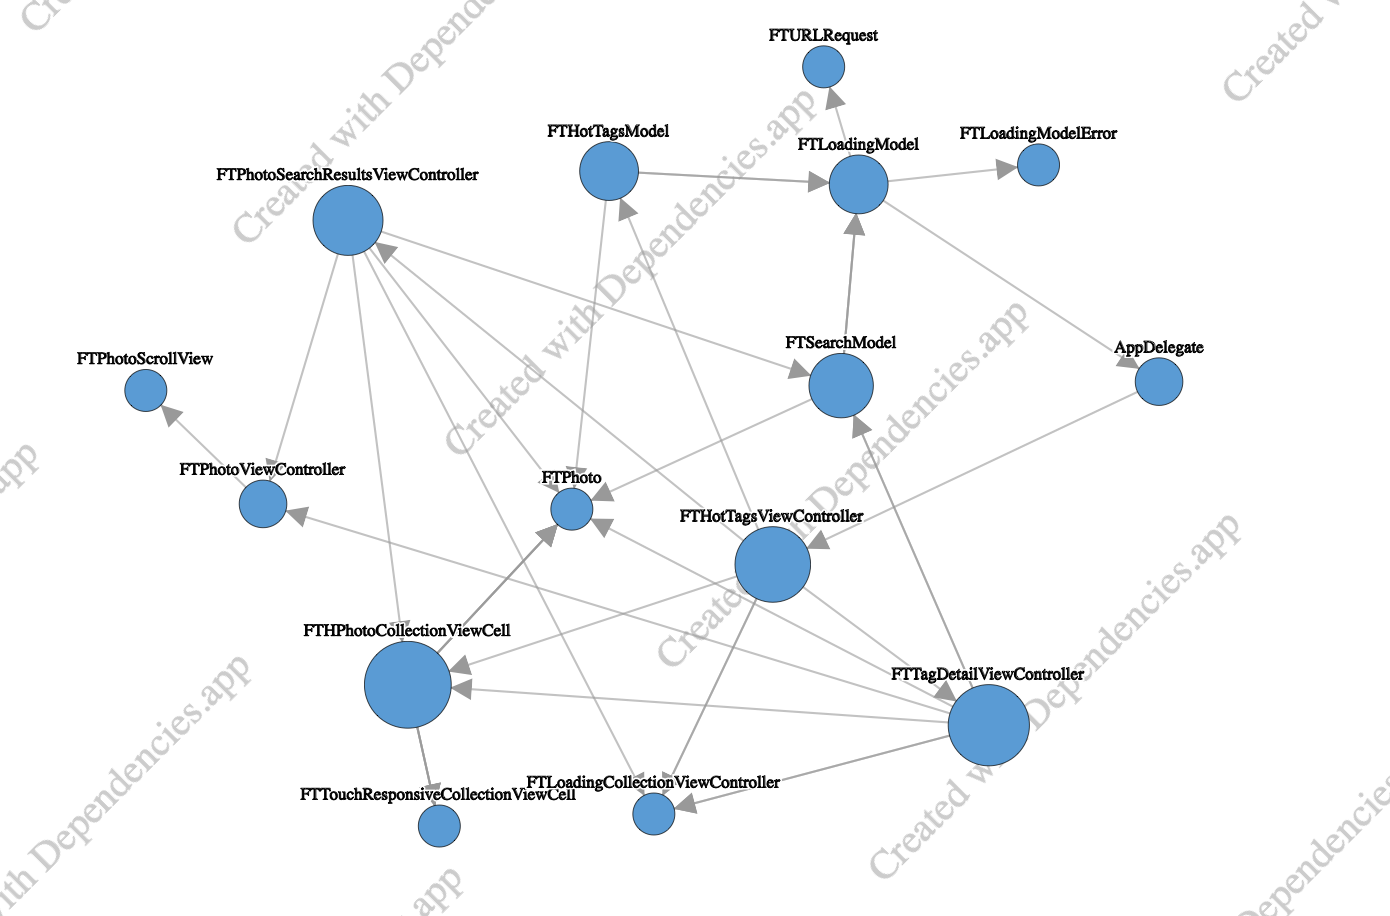
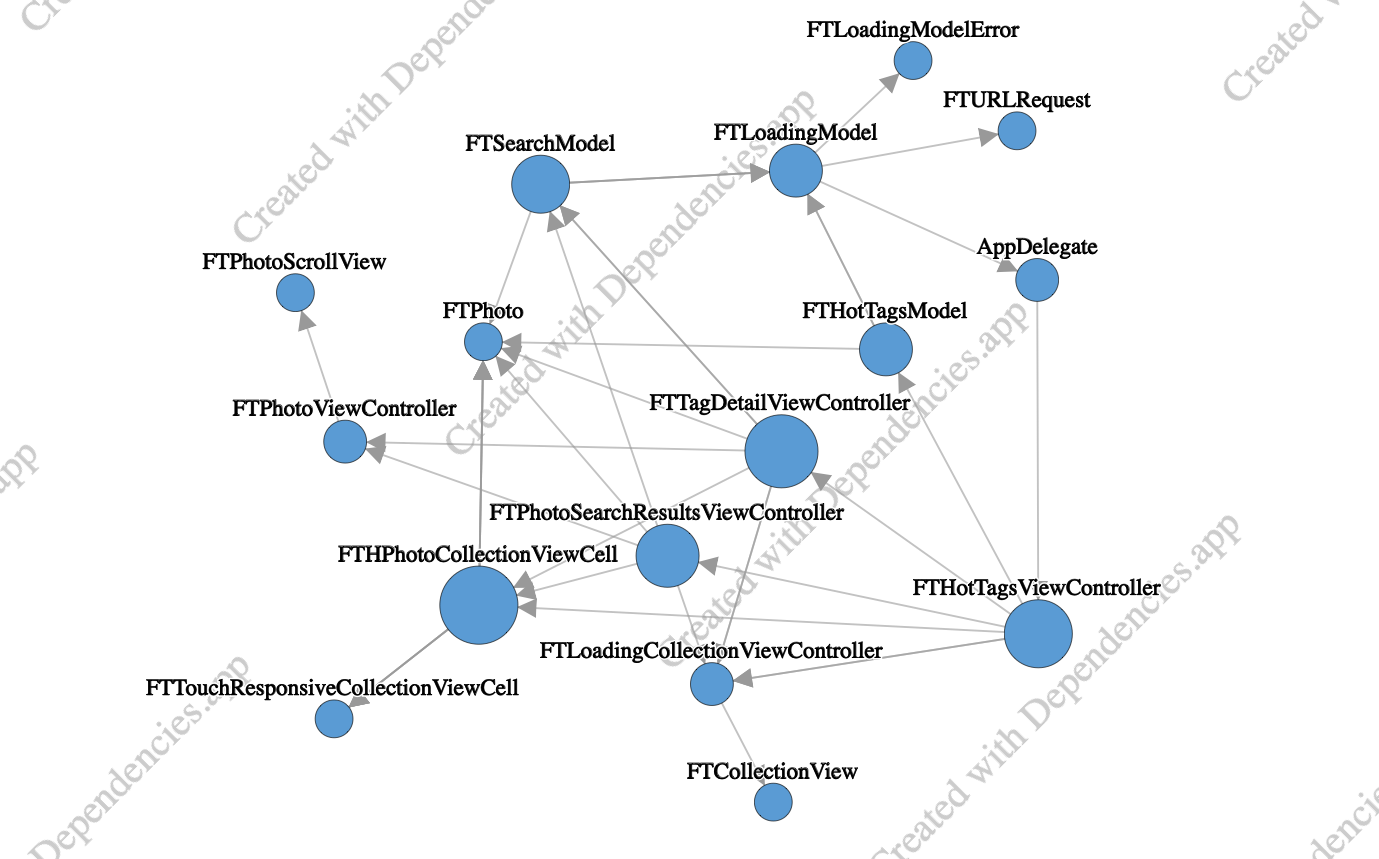
[*] Move collection view and its layout to a single classes

diff --git a/FlickrTestTask/ViewControllers/FTLoadingCollectionViewController.m b/FlickrTestTask/ViewControllers/FTLoadingCollectionViewController.m
@@ -6,26 +6,19 @@
 //
 
 #import "FTLoadingCollectionViewController.h"
-#import <os/log.h>
+#import "FTCollectionView.h"
+#import "FTCollectionViewSquareLayout.h"
+
+@interface FTLoadingCollectionViewController ()
+@property (null_resettable, nonatomic, strong) FTCollectionView *collectionView;
+@end
 
 @implementation FTLoadingCollectionViewController
+@dynamic collectionView;
 
 - (instancetype)init
 {
-    self = [super init];
-    if (self) {
-        [self commonInit];
-    }
-    return self;
-}
-
-- (instancetype)initWithCoder:(NSCoder *)coder
-{
-    self = [super initWithCoder:coder];
-    if (self) {
-        [self commonInit];
-    }
-    return self;
+    return [self initWithCollectionViewLayout:[FTCollectionViewSquareLayout new]];
 }
 
 - (instancetype)initWithCollectionViewLayout:(UICollectionViewLayout *)layout
@@ -39,25 +32,9 @@
 
 - (void)commonInit {}
 
-- (void)viewDidLoad
+- (void)loadView
 {
-    [super viewDidLoad];
-    
-    self.collectionView.alwaysBounceVertical = YES;
-    self.collectionView.backgroundColor = [UIColor systemBackgroundColor];
-    
-    UICollectionViewFlowLayout *layout = (UICollectionViewFlowLayout *)self.collectionViewLayout;
-    layout.sectionInset = UIEdgeInsetsMake(8.0, 8.0, 8.0, 8.0);
-    
-    if ([UIDevice currentDevice].userInterfaceIdiom != UIUserInterfaceIdiomPad) {
-        layout.itemSize = CGSizeMake(112.0, 112.0);
-        layout.minimumLineSpacing = 8.0;
-        layout.minimumInteritemSpacing = 8.0;
-    } else {
-        layout.itemSize = CGSizeMake(140.0, 140.0);
-        layout.minimumLineSpacing = 16.0;
-        layout.minimumInteritemSpacing = 8.0;
-    }
+    self.collectionView = [[FTCollectionView alloc] initWithFrame:CGRectZero collectionViewLayout:self.collectionViewLayout];
 }
 
 #pragma mark - FTLoadingModelDelegate
@@ -65,12 +42,7 @@
 - (void)loadingModelReceivedUpdate:(FTLoadingModel *)model
 {
     dispatch_async(dispatch_get_main_queue(), ^{
-        [self.collectionView reloadData];
-        
-        UIViewAnimationOptions opts = UIViewAnimationOptionAllowUserInteraction | UIViewAnimationOptionBeginFromCurrentState;
-        [UIView animateWithDuration:0.4 delay:0.0 usingSpringWithDamping:1.0 initialSpringVelocity:0.0 options:opts animations:^{
-            [self.collectionView layoutIfNeeded];
-        } completion:nil];
+        [self.collectionView reloadDataAnimated:YES];
     });
 }
 

diff --git a/FlickrTestTask/ViewControllers/FTPhotoSearchResultsViewController.m b/FlickrTestTask/ViewControllers/FTPhotoSearchResultsViewController.m
@@ -12,6 +12,7 @@
 
 @interface FTPhotoSearchResultsViewController ()
 
+/// Block which will be executed after user stopped typing 
 @property (strong, nonatomic, nullable) dispatch_block_t throttledSearchBlock;
 
 @property (strong, nonatomic, nullable) FTSearchModel *model;
@@ -19,11 +20,6 @@
 @end
 
 @implementation FTPhotoSearchResultsViewController
-
-- (instancetype)init
-{
-    return [super initWithCollectionViewLayout:[UICollectionViewFlowLayout new]];
-}
 
 - (void)commonInit
 {    
@@ -35,22 +31,25 @@
 - (void)viewDidLoad {
     [super viewDidLoad];
     
-    self.collectionView.keyboardDismissMode = UIScrollViewKeyboardDismissModeOnDrag;
     [self.collectionView registerClass:[FTHPhotoCollectionViewCell class] forCellWithReuseIdentifier:@"previewCell"];
 }
 
 - (void)updateSearchResultsForSearchController:(UISearchController *)searchController
 {
+    // User typed some word. Cancel search
     if (self.throttledSearchBlock) {
         dispatch_block_cancel(self.throttledSearchBlock);
     }
     
+    // Clear all results if user deleted text
     NSString *text = [searchController.searchBar.text copy];
     if (text.length == 0) {
         [self.model clearResults];
         return;
     }
     
+    // Create new execution block ('cause cannot resume previous)
+    // And delay its execution
     self.throttledSearchBlock = dispatch_block_create(0, ^{
         self.model.text = text;
         [self.model queryAPI];

diff --git a/FlickrTestTask/Views/FTCollectionView.m b/FlickrTestTask/Views/FTCollectionView.m
@@ -1,0 +1,35 @@
+//
+//  FTCollectionView.m
+//  FlickrTestTask
+//
+//  Created by Daniil on 15.02.2021.
+//
+
+#import "FTCollectionView.h"
+
+@implementation FTCollectionView
+
+- (instancetype)initWithFrame:(CGRect)frame collectionViewLayout:(UICollectionViewLayout *)layout
+{
+    self = [super initWithFrame:frame collectionViewLayout:layout];
+    if (self) {
+        self.alwaysBounceVertical = YES;
+        self.backgroundColor = [UIColor systemBackgroundColor];
+        self.keyboardDismissMode = UIScrollViewKeyboardDismissModeOnDrag;
+    }
+    return self;
+}
+
+- (void)reloadDataAnimated:(BOOL)animated
+{
+    [self reloadData];
+    
+    if (animated) {
+        UIViewAnimationOptions opts = UIViewAnimationOptionAllowUserInteraction | UIViewAnimationOptionBeginFromCurrentState;
+        [UIView animateWithDuration:0.4 delay:0.0 usingSpringWithDamping:1.0 initialSpringVelocity:0.0 options:opts animations:^{
+            [self layoutIfNeeded];
+        } completion:nil];
+    }
+}
+
+@end

diff --git a/FlickrTestTask/Static Models/FTCollectionViewSquareLayout.m b/FlickrTestTask/Static Models/FTCollectionViewSquareLayout.m
@@ -1,0 +1,31 @@
+//
+//  FTCollectionViewSquareLayout.m
+//  FlickrTestTask
+//
+//  Created by Daniil on 15.02.2021.
+//
+
+#import "FTCollectionViewSquareLayout.h"
+
+@implementation FTCollectionViewSquareLayout
+
+- (instancetype)init
+{
+    self = [super init];
+    if (self) {
+        self.sectionInset = UIEdgeInsetsMake(8.0, 8.0, 8.0, 8.0);
+        
+        if ([UIDevice currentDevice].userInterfaceIdiom != UIUserInterfaceIdiomPad) {
+            self.itemSize = CGSizeMake(112.0, 112.0);
+            self.minimumLineSpacing = 8.0;
+            self.minimumInteritemSpacing = 8.0;
+        } else {
+            self.itemSize = CGSizeMake(140.0, 140.0);
+            self.minimumLineSpacing = 16.0;
+            self.minimumInteritemSpacing = 8.0;
+        }
+    }
+    return self;
+}
+
+@end

diff --git a/FlickrTestTask/ViewControllers/FTTagDetailViewController.m b/FlickrTestTask/ViewControllers/FTTagDetailViewController.m
@@ -14,11 +14,6 @@
 
 @implementation FTTagDetailViewController
 
-- (instancetype)init
-{
-    return [self initWithCollectionViewLayout:[UICollectionViewFlowLayout new]];
-}
-
 - (void)commonInit
 {
     _model = [FTSearchModel new];
@@ -30,8 +25,7 @@
     [super viewDidLoad];
     
     self.title = self.model.tags.firstObject;
-    self.collectionView.backgroundColor = [UIColor systemBackgroundColor];
-    self.collectionView.alwaysBounceVertical = YES;
+    
     [self.collectionView registerClass:[FTHPhotoCollectionViewCell class] forCellWithReuseIdentifier:@"previewCell"];
     
     [self.model queryAPI];

diff --git a/FlickrTestTask/Views/FTCollectionView.h b/FlickrTestTask/Views/FTCollectionView.h
@@ -1,0 +1,20 @@
+//
+//  FTCollectionView.h
+//  FlickrTestTask
+//
+//  Created by Daniil on 15.02.2021.
+//
+
+#import <UIKit/UIKit.h>
+
+NS_ASSUME_NONNULL_BEGIN
+
+@interface FTCollectionView : UICollectionView
+
+/// Performs reloadData: method but also animates cells appearance.
+/// @param animated Flag which indicates if cells need to be animated.
+- (void)reloadDataAnimated:(BOOL)animated;
+
+@end
+
+NS_ASSUME_NONNULL_END

diff --git a/FlickrTestTask/Static Models/FTCollectionViewSquareLayout.h b/FlickrTestTask/Static Models/FTCollectionViewSquareLayout.h
@@ -1,0 +1,16 @@
+//
+//  FTCollectionViewSquareLayout.h
+//  FlickrTestTask
+//
+//  Created by Daniil on 15.02.2021.
+//
+
+#import <UIKit/UIKit.h>
+
+NS_ASSUME_NONNULL_BEGIN
+
+@interface FTCollectionViewSquareLayout : UICollectionViewFlowLayout
+
+@end
+
+NS_ASSUME_NONNULL_END

diff --git a/FlickrTestTask/ViewControllers/FTHotTagsViewController.m b/FlickrTestTask/ViewControllers/FTHotTagsViewController.m
@@ -18,11 +18,6 @@
 
 @implementation FTHotTagsViewController
 
-- (instancetype)init
-{
-    return [super initWithCollectionViewLayout:[UICollectionViewFlowLayout new]];
-}
-
 - (void)commonInit
 {
     _model = [FTHotTagsModel new];
